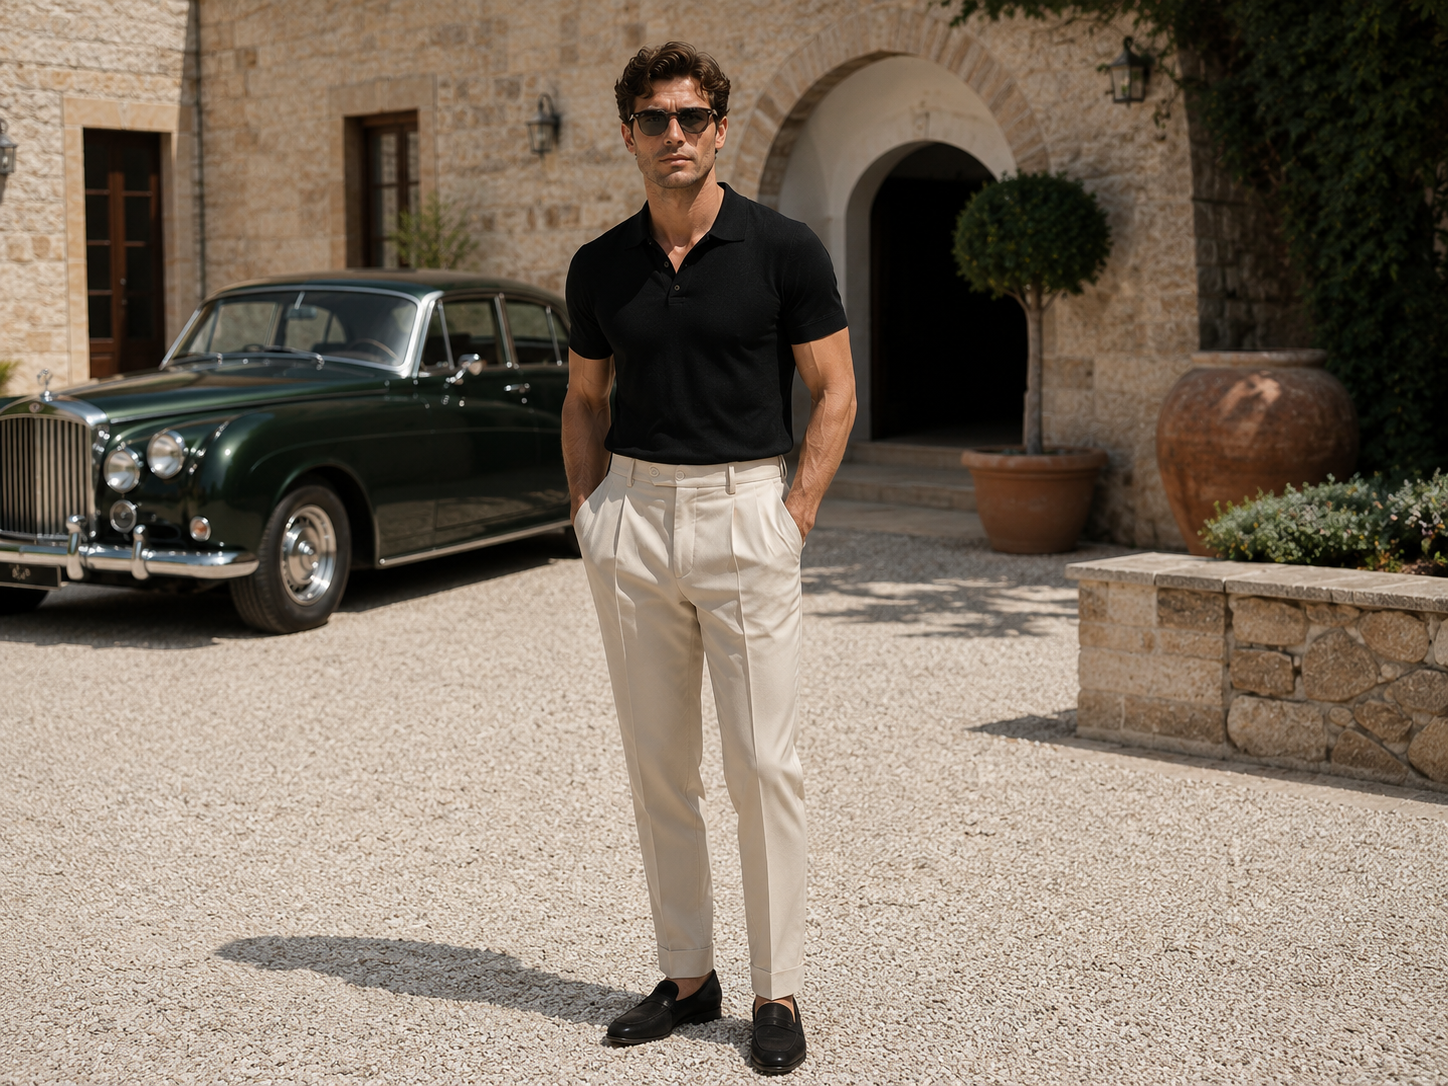
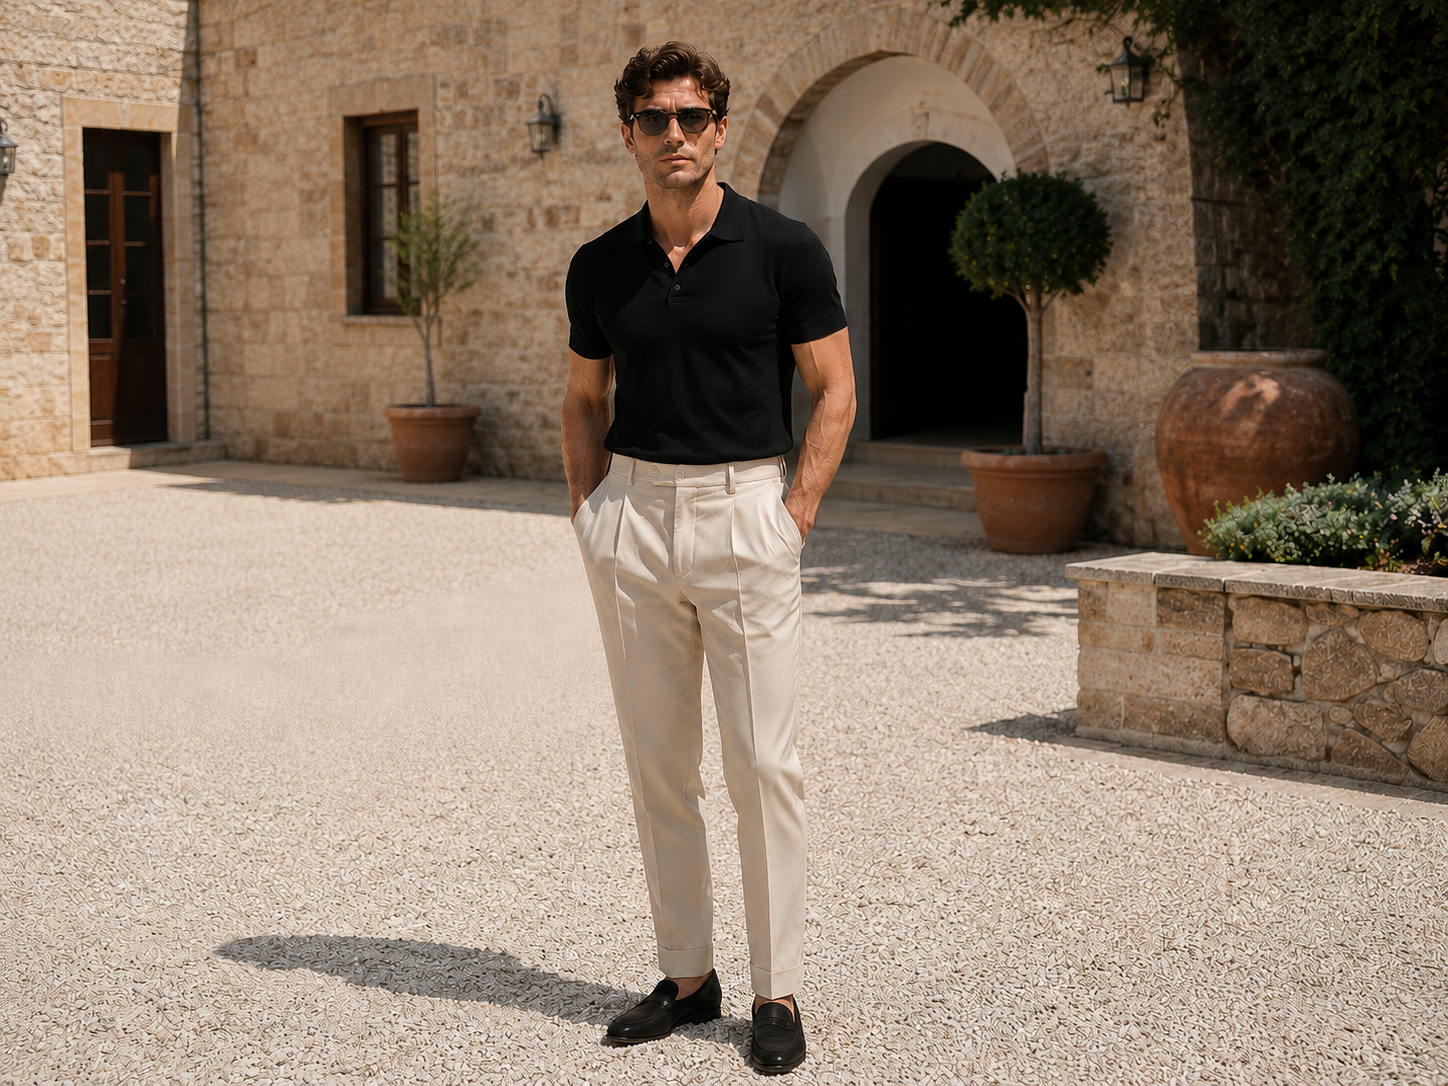
feat: add Provenance section to homepage

diff --git a/app/components/Provenance/Provenance.module.css b/app/components/Provenance/Provenance.module.css
@@ -1,0 +1,48 @@
+.section {
+  padding: var(--space-6xl) var(--content-padding);
+  background-color: var(--color-off-white);
+  display: flex;
+  justify-content: center;
+  align-items: center;
+  text-align: center;
+}
+
+.content {
+  max-width: 800px;
+  display: flex;
+  flex-direction: column;
+  align-items: center;
+  gap: var(--space-2xl);
+}
+
+.eyebrow {
+  font-family: var(--font-sans);
+  font-size: var(--text-xs);
+  font-weight: 600;
+  text-transform: uppercase;
+  letter-spacing: 0.25em;
+  color: var(--color-gray-500);
+}
+
+.headline {
+  font-family: 'Cardival', var(--font-serif);
+  font-size: clamp(2.5rem, 5vw, 4rem);
+  font-weight: 400;
+  font-style: normal;
+  color: var(--color-black);
+  line-height: 1.15;
+}
+
+.body {
+  font-family: var(--font-sans);
+  font-size: clamp(1rem, 1.5vw, 1.125rem);
+  line-height: 1.8;
+  color: var(--color-gray-500);
+  max-width: 600px;
+}
+
+@media (max-width: 768px) {
+  .section {
+    padding: var(--space-4xl) var(--content-padding);
+  }
+}

diff --git a/app/components/Provenance/Provenance.tsx b/app/components/Provenance/Provenance.tsx
@@ -1,0 +1,36 @@
+'use client';
+
+import { motion } from 'framer-motion';
+import styles from './Provenance.module.css';
+
+export default function Provenance() {
+  const containerVariants = {
+    hidden: { opacity: 0, y: 20 },
+    visible: {
+      opacity: 1,
+      y: 0,
+      transition: {
+        duration: 0.8,
+        ease: "easeOut",
+      },
+    },
+  };
+
+  return (
+    <section className={styles.section} aria-label="The Provenance">
+      <motion.div 
+        className={styles.content}
+        variants={containerVariants}
+        initial="hidden"
+        whileInView="visible"
+        viewport={{ once: true, amount: 0.3 }}
+      >
+        <span className={styles.eyebrow}>The Provenance</span>
+        <h2 className={styles.headline}>Crafted in Italy.<br />Worn Everywhere.</h2>
+        <p className={styles.body}>
+          Every piece begins in a small atelier in Piedmont, where pattern, cloth, and hand meet — far from mass production, close to mastery. KSM is not made for everyone. It is made for those who recognize the difference the moment they put it on.
+        </p>
+      </motion.div>
+    </section>
+  );
+}

diff --git a/app/page.tsx b/app/page.tsx
@@ -6,6 +6,7 @@ import FeaturedCollection from "./components/FeaturedCollection/FeaturedCollecti
 import AtelierBanner from "./components/AtelierBanner/AtelierBanner";
 import DesignIdeology from "./components/DesignIdeology/DesignIdeology";
 import PhotoGallery from "./components/PhotoGallery/PhotoGallery";
+import Provenance from "./components/Provenance/Provenance";
 
 export default function Home() {
   return (
@@ -15,6 +16,7 @@ export default function Home() {
       <AtelierBanner />
       <DesignIdeology />
       <PhotoGallery />
+      <Provenance />
     </>
   );
 }